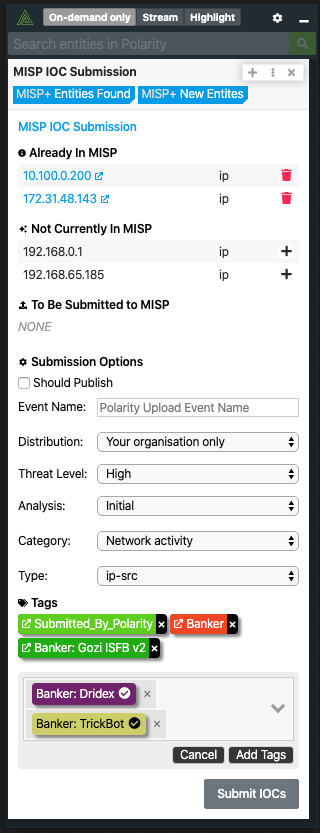
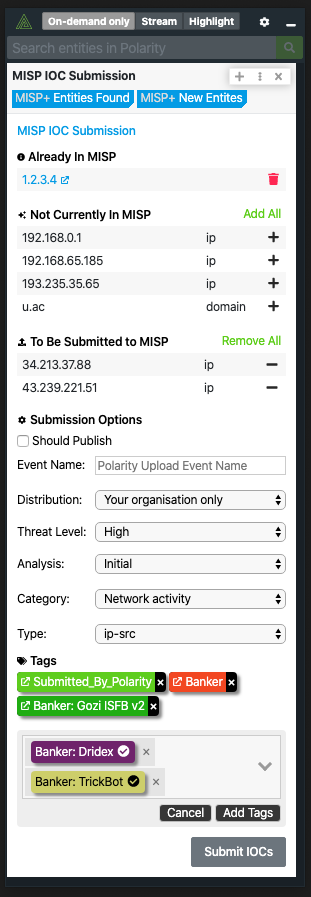
Added Add All and Remove All buttons.

diff --git a/styles/styles.less b/styles/styles.less
@@ -9,7 +9,7 @@
   &:first-child {
     margin-top: 5px !important;
   }
-  &.submission-options{
+  &.submission-options {
     margin-top: 15px !important;
   }
   height: 15px !important;
@@ -40,6 +40,7 @@ table {
   font-family: inherit;
   border: 0;
   padding: 0;
+  background-color: transparent;
 
   &:hover,
   &:focus {
@@ -120,7 +121,7 @@ table {
     }
   }
 
-  .external-link-tag{
+  .external-link-tag {
     font-size: 9px;
     margin-bottom: 1px;
     margin-right: 2px;
@@ -128,7 +129,7 @@ table {
 }
 
 a.tag {
-  .text-container:hover{
+  .text-container:hover {
     text-decoration: underline;
   }
 }
@@ -220,7 +221,8 @@ a.tag {
   min-height: 157px;
 }
 
-.ioc-deletion-modal, .default-category-type-modal {
+.ioc-deletion-modal,
+.default-category-type-modal {
   position: absolute;
   background: #ededed;
   border: #cdcdcd 1px solid;
@@ -241,12 +243,14 @@ a.tag {
     }
   }
 
-  .delete-confirmation-button, .ok-button-container {
+  .delete-confirmation-button,
+  .ok-button-container {
     padding-top: 6px;
     display: flex;
     justify-content: flex-end;
 
-    .cancel-delete, .ok-button {
+    .cancel-delete,
+    .ok-button {
       margin-right: 8px;
       background-color: white;
       border-radius: 2px;
@@ -254,10 +258,10 @@ a.tag {
     .ok-button {
       font-weight: 600;
       background-color: white;
-      padding-top:6px;
-      padding-bottom:6px;
-      padding-left:15px;
-      padding-right:15px;
+      padding-top: 6px;
+      padding-bottom: 6px;
+      padding-left: 15px;
+      padding-right: 15px;
       border-radius: 3px;
     }
   }
@@ -265,21 +269,34 @@ a.tag {
 
 .default-category-type-modal {
   bottom: 30px;
-  top:auto;
+  top: auto;
   .p-value {
-    color:  #5CCD18 !important;
+    color: #5ccd18 !important;
   }
 }
 
 .dropdown {
-  color:  #5CCD18 !important;
+  color: #5ccd18 !important;
   .text {
     padding-left: 5px;
-    color:  #5CCD18 !important;
+    color: #5ccd18 !important;
   }
 }
 
 .type-list-title {
   padding-top: 7px;
   padding-bottom: 4px;
+}
+
+.title-with-button {
+  display: flex;
+  flex-direction: row;
+  justify-content: space-between;
+  align-items: center;
+  padding-top: 10px;
+  & > button {
+    color: #5ccd18 !important; 
+    padding-right: 5px;
+    font-size: 12px
+  }
 }

diff --git a/components/block.js b/components/block.js
@@ -230,6 +230,24 @@ polarity.export = PolarityComponent.extend({
           }, 5000);
         });
     },
+    removeAllSubmitItems: function () {
+      const allIOCs = this.get('newIocs').concat(this.get('newIocsToSubmit'));
+
+      this.set('newIocs', allIOCs);
+      this.set('newIocsToSubmit', []);
+
+      this.updateCategorySubmitDisabled([]);
+      this.get('block').notifyPropertyChange('data');
+    },
+    addAllSubmitItems: function () {
+      const allIOCs = this.get('newIocs').concat(this.get('newIocsToSubmit'));
+
+      this.set('newIocs', []);
+      this.set('newIocsToSubmit', allIOCs);
+
+      this.updateCategorySubmitDisabled(allIOCs);
+      this.get('block').notifyPropertyChange('data');
+    },
     removeSubmitItem: function (entity) {
       this.set('newIocs', this.get('newIocs').concat(entity));
 

diff --git a/README.md b/README.md
@@ -5,7 +5,7 @@ The Polarity MISP integration allows Polarity to search your instance of MISP to
 > ***NOTE***: Attribute creation will create a new event containing all Attributes submitted.
 
 <div>
-  <img width="400" alt="Integration Example" src="./assets/integration-example.png">
+  <img width="350px" alt="Integration Example" src="./assets/integration-example.png">
 </div>
 
 ## MISP Integration Options
